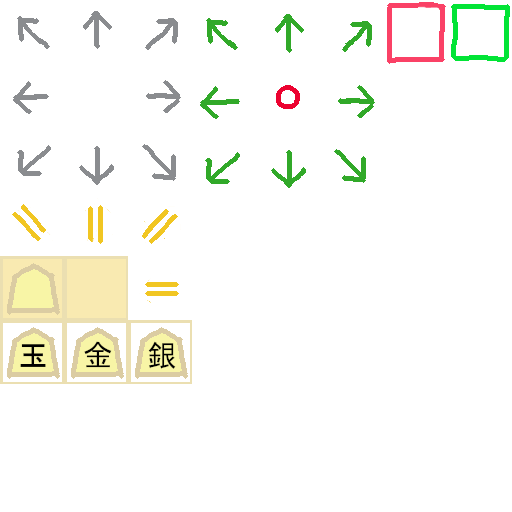
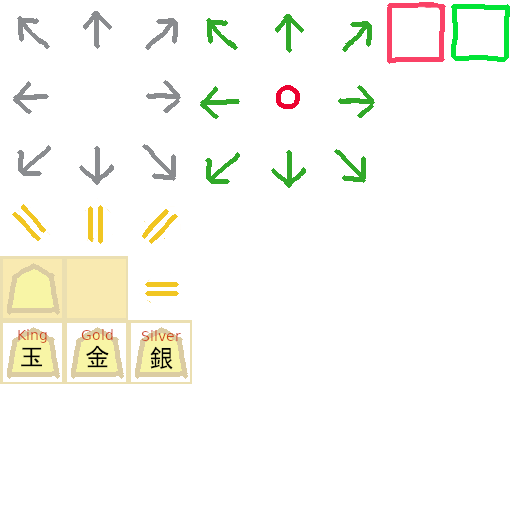
WIP. 海外向けに改造中

Changed region(s): [[0.1562, 0.625, 0.2188, 0.7188], [0.0312, 0.625, 0.0938, 0.7188], [0.2812, 0.625, 0.3438, 0.7188]]

diff --git a/public/main.html b/public/main.html
@@ -24,11 +24,29 @@
             // データ読み取り
             let input = get_data();
 
+            // 囲いの英語名
+            let englishHtml = input.english;
+            document.getElementById("enclosureEnglish").innerHTML = englishHtml;
+
+            // 囲いのカテゴリー名
+            let categoryHtml = "";
+            for (let item of input.category) {
+                categoryHtml += `<ruby><span style="font-size:36px; color:rgb(51, 153, 204); line-height:90%;">${item[0]}</span>
+<rt><span style="font-size:20px; color:rgb(51, 153, 204); line-height:90%;">${item[1]}.</span>
+</rt>
+</ruby>`;
+            }
+            document.getElementById("enclosureCategory").innerHTML = categoryHtml;
+
             // 囲いの名前
-            document.getElementById("enclosureCategoryEn").innerHTML = `${input.enclosureName[2]}`;
-            document.getElementById("enclosureCategoryJp").innerHTML = `${input.enclosureName[0]}`;
-            document.getElementById("enclosureNameEn").innerHTML = `${input.enclosureName[3]}`;
-            document.getElementById("enclosureNameJp").innerHTML = `${input.enclosureName[1]}`;
+            let nameHtml = "";
+            for (let item of input.formalName) {
+                nameHtml += `<ruby><span style="font-size:36px; color:rgb(51, 153, 204); line-height:90%;">${item[0]}</span>
+<rt><span id="enclosureNameEn" style="font-size:20px; color:rgb(51, 153, 204); line-height:90%;">${item[1]}.</span>
+</rt>
+</ruby>`;
+            }
+            document.getElementById("enclosureName").innerHTML = nameHtml;
 
             // 探索開始
             let bestPath = await playoutAll(input, false);
@@ -53,16 +71,13 @@
 
 <body onload="on_load();" style="margin:40px;">
     <!-- 囲いの名前 -->
-    <div style="margin-top:350px;">
-        <ruby><span id="enclosureCategoryJp" style="font-size:36px; color:rgb(51, 153, 204); line-height:90%;"></span>
-            <rt><span id="enclosureCategoryEn" style="font-size:20px; color:rgb(51, 153, 204); line-height:90%;"></span>
-            </rt>
-        </ruby>
+    <div id="enclosureEnglish"
+        style="position:absolute; top:300px; font-size:28px; color:white; background-color:rgb(51, 153, 204); padding:2px 16px;">
+    </div>
+    <div style="position:absolute; top:350px;">
+        <span id="enclosureCategory"></span>
         <span style="font-size:36px; color:rgb(51, 153, 204); line-height:90%;">（</span>
-        <ruby><span id="enclosureNameJp" style="font-size:36px; color:rgb(51, 153, 204); line-height:90%;"></span>
-            <rt><span id="enclosureNameEn" style="font-size:20px; color:rgb(51, 153, 204); line-height:90%;"></span>
-            </rt>
-        </ruby>
+        <span id="enclosureName"></span>
         <span style="font-size:36px; color:rgb(51, 153, 204); line-height:90%;">）</span>
     </div>
     <!-- 将棋盤
@@ -105,6 +120,8 @@
         <span style="margin-left:77px;"></span><img id="sc1_im" src="img/map.png" class="s"><span id="sc1_tx"
             style="font-size:24px;"></span><br>
         <br>
+        <span style="font-size:18px; font-weight:bold;">On a leash</span><span
+            style="font-size:18px; margin-left:60px;">pts.</span><br>
         <span style="font-size:24px; font-weight:bold;">囲いっぽさ</span><span id="sc0_tx"
             style="font-size:24px; margin-left:20px;"></span><br>
     </div>

diff --git a/public/input.js b/public/input.js
@@ -1,7 +1,26 @@
 function get_data() {
     return {
+        "english": "Castling as if a bear entered a nest",
+        "category": [
+            ["振", "Fu"],
+            ["り", "ri"],
+            ["飛", "b(h)i"],
+            ["車", "sha"],
+            ["穴", "Ana"],
+            ["熊", "g(k)uma"],
+            ["囲", "G(K)ako"],
+            ["い", "i"]
+        ],
+        "formalName": [
+            ["振", "Fu"],
+            ["り", "ri"],
+            ["飛", "b(h)i"],
+            ["車", "sha"],
+            ["穴", "Ana"],
+            ["熊", "g(k)uma"]
+        ],
         "enclosureName": [
-            "その他", "雁木囲い", "Sonota", "Gangi Gakoi"
+            "振り飛車穴熊囲い", "振り飛車穴熊", "Furibisha Anaguma Gakoi", "Furibisha Anaguma"
         ],
         "board": [
             ".........",
@@ -9,10 +28,10 @@ function get_data() {
             ".........",
             ".........",
             ".........",
-            "0.000....",
-            ".00SS0...",
-            "..G.G....",
-            "00.K.....",
+            ".........",
+            "....00000",
+            "......GS0",
+            "......G0K",
         ]
     };
 }

diff --git a/data/input-chonmage-mino.js b/data/input-chonmage-mino.js
@@ -1,0 +1,18 @@
+function get_data() {
+    return {
+        "enclosureName": [
+            "美濃囲い", "ちょんまげ美濃", "Mino Gakoi", "Chonmage Mino"
+        ],
+        "board": [
+            ".........",
+            ".........",
+            ".........",
+            ".........",
+            ".........",
+            ".......0.",
+            "....000.0",
+            "......SK.",
+            ".....G.00",
+        ]
+    };
+}

diff --git a/data/input-bouzu-mino.js b/data/input-bouzu-mino.js
@@ -1,0 +1,18 @@
+function get_data() {
+    return {
+        "enclosureName": [
+            "美濃囲い", "坊主美濃", "Mino Gakoi", "Bouzu Mino"
+        ],
+        "board": [
+            ".........",
+            ".........",
+            ".........",
+            ".........",
+            ".........",
+            ".........",
+            "....000.0",
+            "......SK.",
+            ".....G.00",
+        ]
+    };
+}
